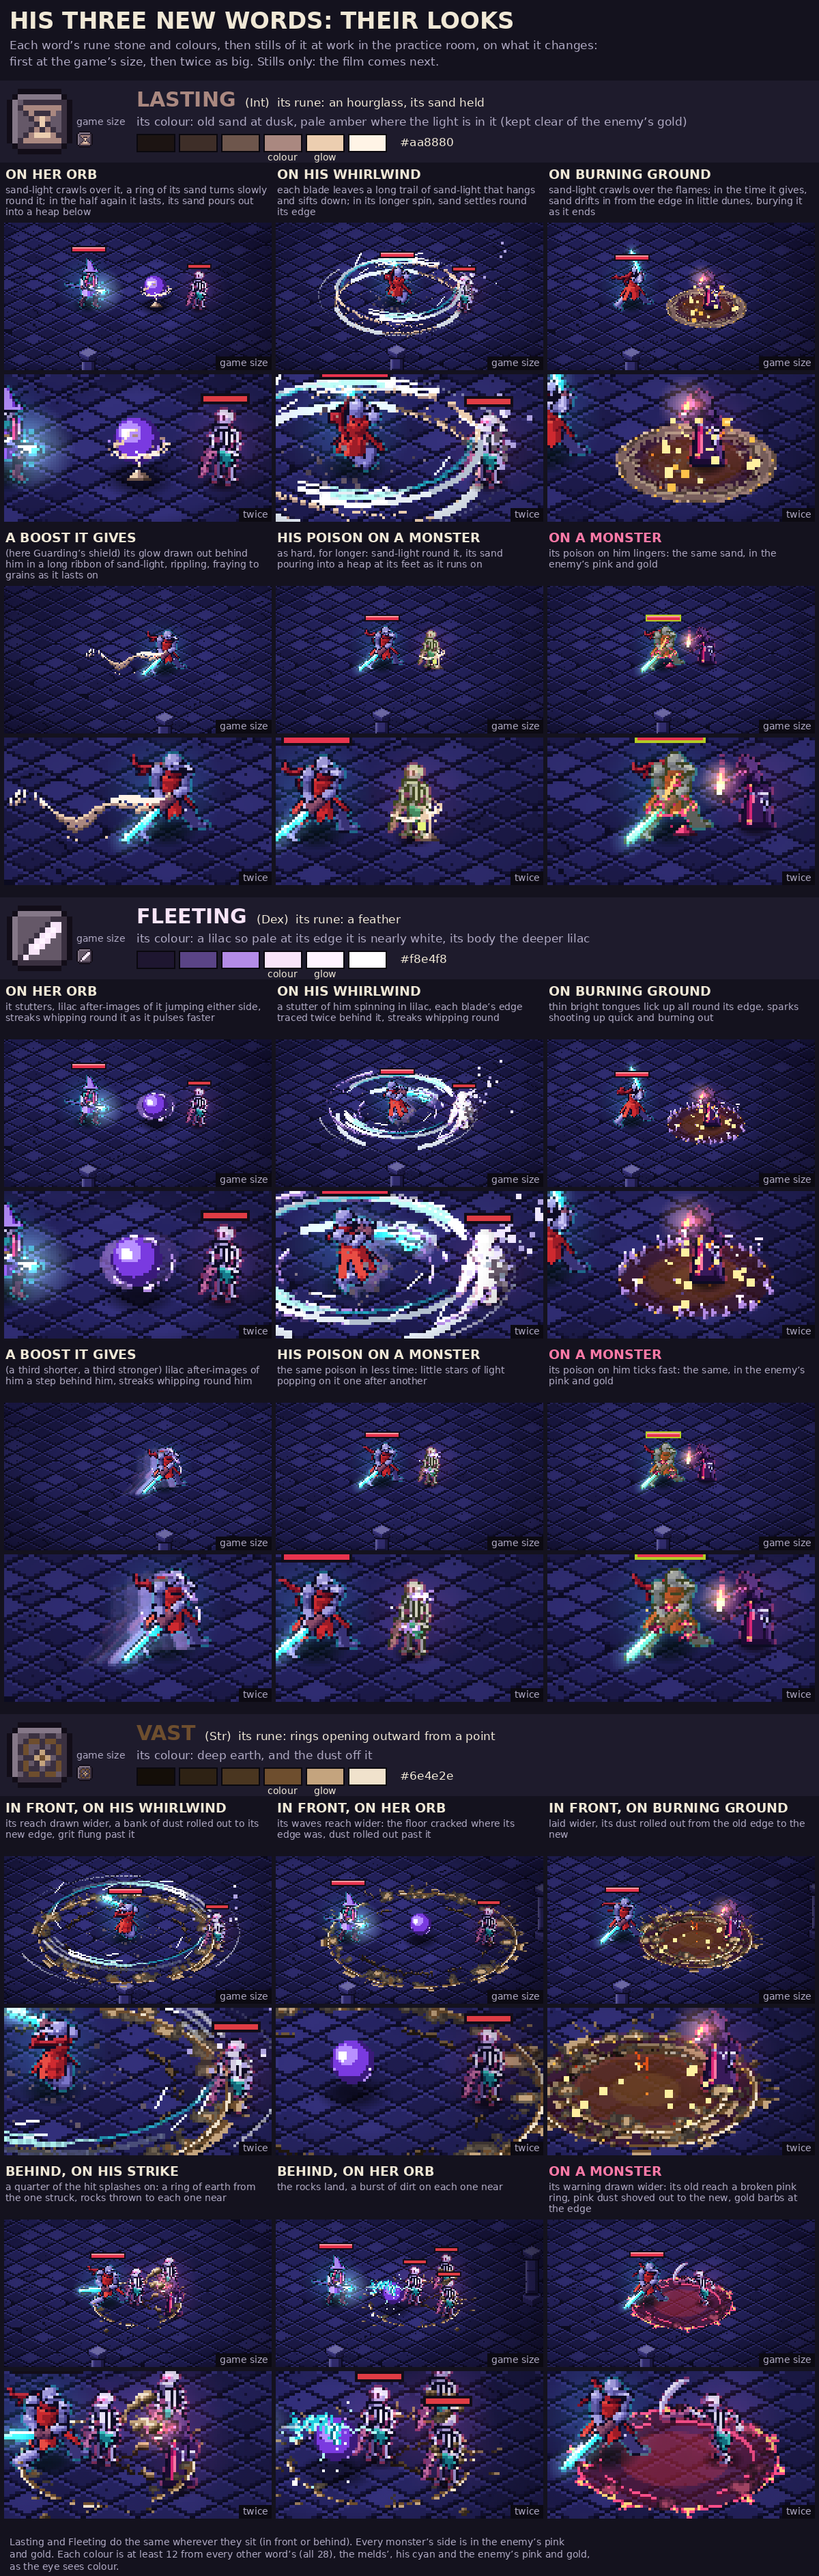
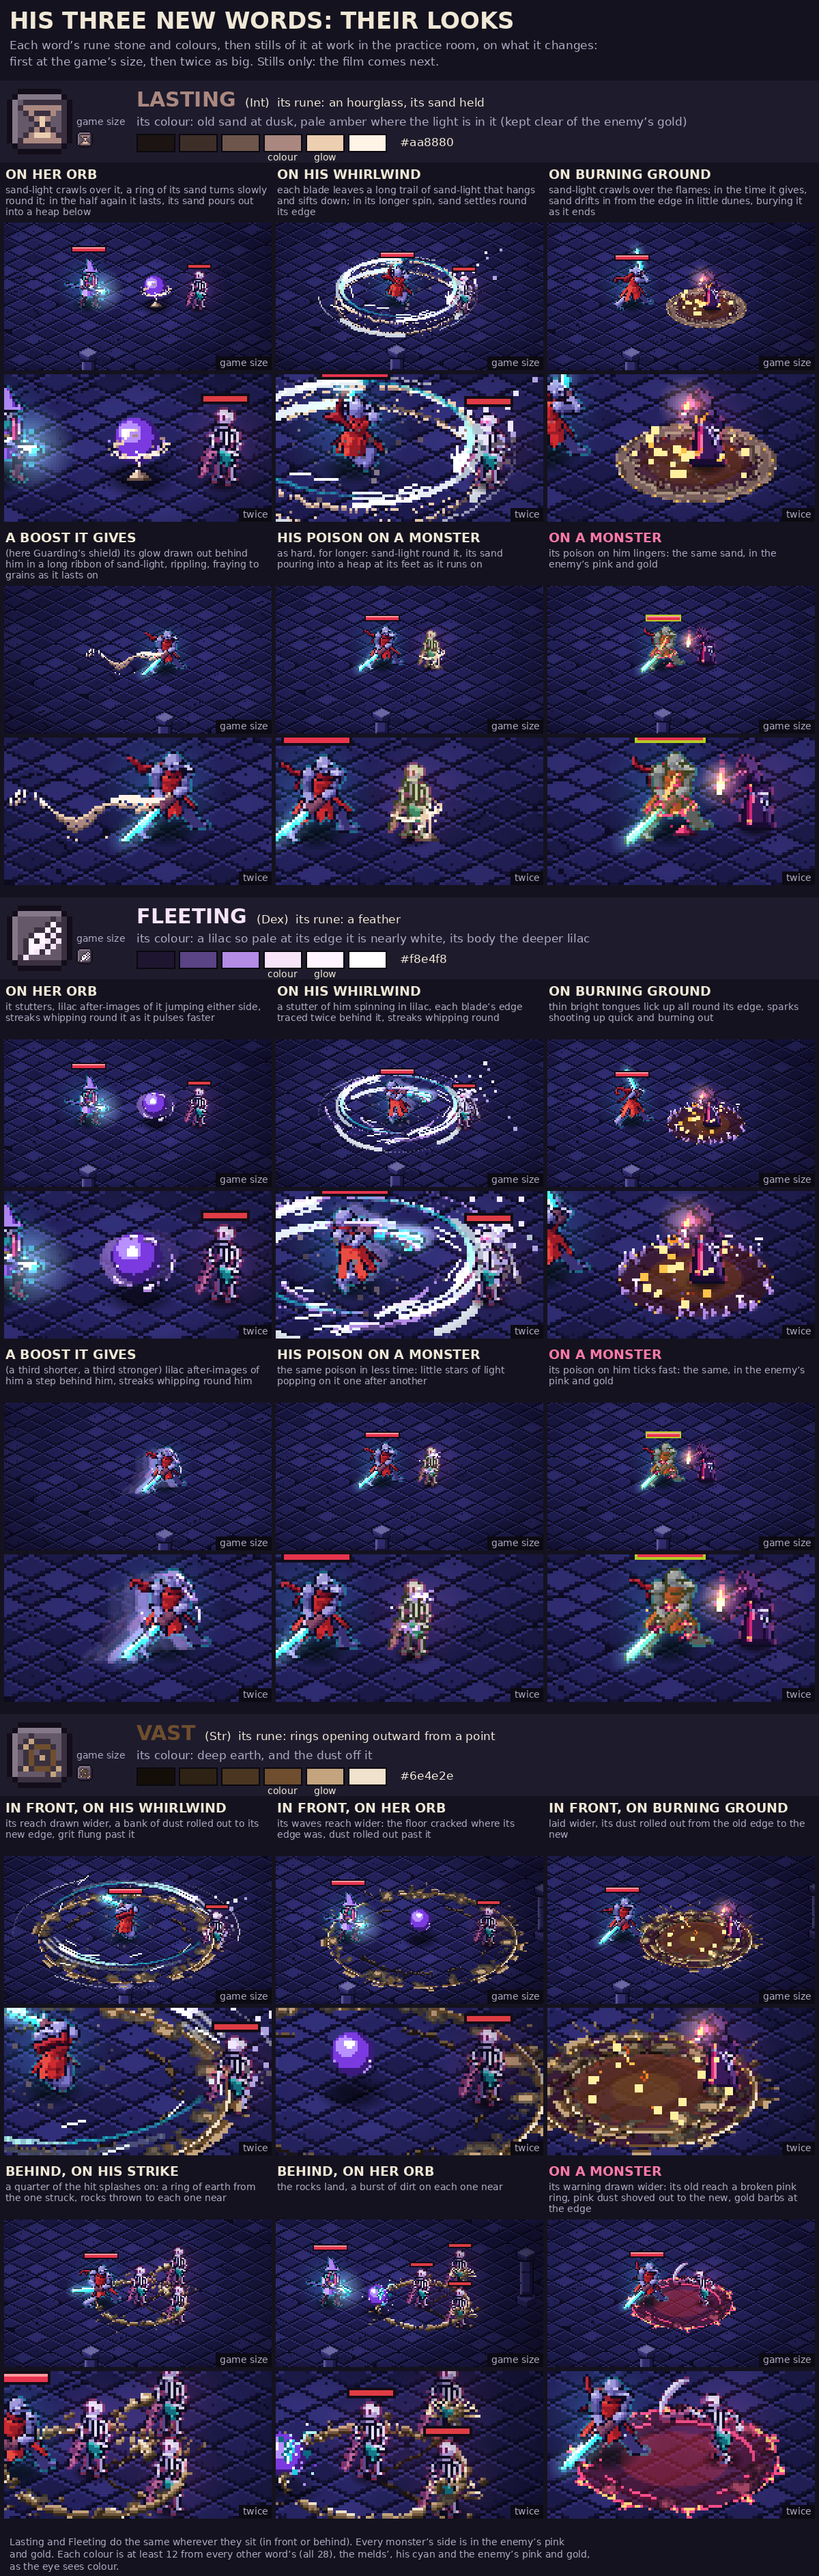
His three new words, step 1b: the Fleeting and Vast runes cut again, Vast's splash spaced and made to read (behind WORDS10_LOOK, off)
What a close look at words3_looks.png (8e5b5656) found, made right before he sees it:
- Fleeting's rune a real feather (quill, shaft, barbs off both sides, the vane above lit and below in shade, gaps, the tip curling); Vast's rune a bright point, a ring round it, the outer ring broken open in two arcs, a fleck: no lattice.
- Vast behind, on his Strike and her orb: the monsters stand apart (each at least its own width from the next and from him, all in the splash's reach); its splash a ridge of earth running out over the floor, a rock arcing to each one near on a thicker trail, a fountain of dirt on each as it lands.
- All eighteen stills: no number of the game's own over them; the game's bar kept out of the crops.
The Lexicon picture is as it was.

Claude-Session: https://claude.ai/code/session_013AACgPRU4FucfYyJnBGYM1

diff --git a/src/render/words10.ts b/src/render/words10.ts
@@ -72,10 +72,12 @@ const ENEMY_DUST: readonly string[] = ['#2a1420', '#401a30', '#5a2440', '#7a3050
 export const W10_GLYPH: Record<W10Word, readonly string[]> = {
   // an hourglass, its sand held: a grain left above, the thread of it, the heap below lit
   lasting: ['XXXXXXX', '.X...X.', '..XoX..', '...o...', '..X.X..', '.XoooX.', 'XXXXXXX'],
-  // a feather, its vane lit, its quill trailing
-  fleeting: ['.....XX', '....XoX', '...XoX.', '..XoX..', '.XoX...', '.XX....', 'X......'],
-  // rings opening outward from a point: the point, a ring of light round it, the outer ring broken open
-  vast: ['.XX.XX.', 'X.....X', 'X..o..X', '..oXo..', 'X..o..X', 'X.....X', '.XX.XX.'],
+  // a feather: its quill bare at the foot, its shaft running up to a tip that curls over; barbs off both sides of it, the vane
+  // above lit, the vane below in shade, gaps in both
+  fleeting: ['.....o.', '....o.o', '..oo.X.', '.o.oX.X', '.ooX.X.', '.oX.X..', 'X......'],
+  // rings opening outward from a point: the bright point, a ring round it, the outer ring broken open in two arcs of lit dust,
+  // a fleck thrown off it
+  vast: ['.o.....', 'o.XXX..', '.X...X.', '.X.o.X.', '.X...X.', 'o.XXX.o', '.....o.'],
 };
 export const W10_GLYPH_IS: Record<W10Word, string> = {
   lasting: 'an hourglass, its sand held',
@@ -826,6 +828,30 @@ function splash(g: CanvasRenderingContext2D, cam: Cam, a: Act10, layer: 'floor' 
   // the ring of earth-coloured force heaving out from it, Vast's own ring (its dust lower, so the near ones stand clear in it)
   const back = layer === 'floor';
   dustRing(g, cx, cy, 0.15, Math.max(0.2, R), 1, fade * (1 - 0.35 * k), a.seed, a.t, back, 0, 0.75);
+  // its front: a ridge of earth heaved up off the floor as it runs out, lit along its crest, clods popping up off it
+  if (R > 0.2) {
+    const n = Math.max(30, Math.round(R * RX * 7));
+    for (let i = 0; i < n; i++) {
+      const an = (i / n) * TAU;
+      if (Math.sin(an) < 0 !== back) continue;
+      const v = vnoise(i * 0.22, 2, a.seed + 9);
+      if (v < 0.22) continue;
+      const x = cx + Math.cos(an) * R * RX;
+      const y = cy + Math.sin(an) * R * RY;
+      if (!dith(x, y, fade * (1 - 0.3 * k) + 0.1, a.seed + 2)) continue;
+      const up = v > 0.55 ? 3 : 2;
+      dot(g, x, y, EARTH[1]);
+      dot(g, x, y - 1, EARTH[3]);
+      if (up > 2) dot(g, x, y - 2, EARTH[4]);
+      dot(g, x, y - up, v > 0.7 ? C[5] : C[4]);
+    }
+    for (let i = 0; i < 12; i++) {
+      const an = hash2(i, a.seed, 11) * TAU;
+      if (Math.sin(an) < 0 !== back) continue;
+      const pop = Math.sin(clamp01(k * 1.3 - hash2(i, a.seed, 12) * 0.3) * Math.PI) * (3 + hash2(i, a.seed, 13) * 5);
+      clod(g, cx + Math.cos(an) * R * RX * 1.04, cy + Math.sin(an) * R * RY * 1.04 - 2 - pop, EARTH, i % 3 === 0);
+    }
+  }
   if (layer === 'floor') {
     // the floor cracked out from where it was struck, and burst up along the way to each one near
     a.to.forEach((o, j) => {
@@ -860,10 +886,11 @@ function splash(g: CanvasRenderingContext2D, cam: Cam, a: Act10, layer: 'floor' 
       for (let q = Math.max(0, fly - tail); q < fly; q += 0.012) {
         const [px, py] = arc(q);
         const k2 = (q - (fly - tail)) / tail;
-        if (!dith(px, py, (0.35 + 0.65 * k2) * fade, a.seed + j)) continue;
+        if (!dith(px, py, (0.45 + 0.55 * k2) * fade, a.seed + j)) continue;
         dot(g, px, py - 1, k2 > 0.6 ? C[5] : C[4]);
         dot(g, px, py, k2 > 0.75 ? C[5] : k2 > 0.4 ? C[4] : EARTH[4]);
-        if (k2 > 0.3) dot(g, px, py + 1, k2 > 0.7 ? C[4] : EARTH[3]);
+        if (k2 > 0.25) dot(g, px, py + 1, k2 > 0.7 ? C[4] : EARTH[3]);
+        if (k2 > 0.55) dot(g, px, py + 2, EARTH[2]);
         if (hash2(Math.round(q * 200), j, a.seed) < 0.15) dot(g, px, py + 3 + (1 - k2) * 6, EARTH[4]);
       }
       const [hx, hy] = arc(fly);
@@ -876,15 +903,15 @@ function splash(g: CanvasRenderingContext2D, cam: Cam, a: Act10, layer: 'floor' 
     }
     const since = a.t - 0.02 - W10_TIME.splash * 0.85;
     const kk = clamp01(since / 0.35);
-    // it bursts on it: a flash of dust-light, dirt thrown up round it, clods falling back
-    if (kk < 0.4) for (let i = 0; i < 7; i++) {
-      const an = (i / 7) * TAU + hash2(i, a.seed + j, 6) * 0.5;
-      const L0 = 2 + kk * 10;
-      const L1 = L0 + 4 * (1 - kk / 0.4);
-      streak(g, tx + Math.cos(an) * L0, ty + Math.sin(an) * L0 * 0.6, tx + Math.cos(an) * L1, ty + Math.sin(an) * L1 * 0.6, [EARTH[3], C[4], C[5]], 1, fade);
+    // it bursts on it: a fountain of dirt thrown up and out round it, lit, a puff of dust, clods falling back
+    if (kk < 0.55) for (let i = 0; i < 9; i++) {
+      const an = -Math.PI / 2 + ((i / 8) - 0.5) * 2.6 + (hash2(i, a.seed + j, 6) - 0.5) * 0.3;
+      const L0 = 2 + kk * 9;
+      const L1 = L0 + (6 + hash2(i, a.seed + j, 7) * 5) * (1 - kk / 0.55);
+      streak(g, tx + Math.cos(an) * L0, ty + 2 + Math.sin(an) * L0 * 0.8, tx + Math.cos(an) * L1, ty + 2 + Math.sin(an) * L1 * 0.8, [EARTH[2], EARTH[4], C[4], C[5]], i % 2 ? 2 : 1, fade);
     }
-    mist(g, tx, ty + 3, 4 + kk * 4, 2 + kk * 2, [DUST[1], DUST[2], DUST[3], C[4]], 0.9 * fade * (1 - kk), a.seed + j, a.t, 0.8);
-    for (let i = 0; i < 7; i++) {
+    mist(g, tx, ty + 3, 5 + kk * 5, 2.5 + kk * 2, [DUST[1], DUST[2], DUST[3], C[4]], 0.9 * fade * (1 - kk), a.seed + j, a.t, 0.8);
+    for (let i = 0; i < 9; i++) {
       const an = hash2(i, a.seed + j, 3) * TAU;
       const d = 2 + kk * 14 * (0.6 + 0.4 * hash2(i, a.seed + j, 4));
       const up = Math.sin(kk * Math.PI) * (4 + hash2(i, a.seed + j, 5) * 5);

diff --git a/docs/mockups/words10/README.md b/docs/mockups/words10/README.md
@@ -40,8 +40,8 @@ chat's stand-ins (lasting `#b09080`, fleeting `#e8d0f8`, vast `#7a5a3a`) are rep
 | Word | Colour | Rune (7 by 7) | At work on his abilities | On a monster (the enemy's pink and gold) |
 |---|---|---|---|---|
 | **Lasting** (Int) | old sand at dusk `#aa8880`, pale amber glow `#ecceb0` | an hourglass, its sand held | a slow band of sand-light crawling over what it holds (the orb, a turret, a familiar, the spin, a patch of ground), and a ring of its sand turning slowly round a thing that hangs; IN THE HALF AGAIN IT GIVES (the time past its own): its sand pouring out of the orb into a heap below, settling in a drift round the spin's edge, drifting in over a patch from its edge in rippled tongues, burying it as it ends. A boost it gave him (Guarding's shield, Power's might, Swift's haste, Frenzy's hold): its glow drawn out behind him in a long ribbon of sand-light along his path, rippling, turning, fraying to grains. His poison or burning on a monster (as hard, for longer): sand-light round it, its sand pouring into a heap at its feet | its poison, burning or chill on him lingers: the same sand, ring and heap on him, in pink and gold |
-| **Fleeting** (Dex) | a lilac so pale it is nearly white `#f8e4f8`, its body the deeper lilac `#b48ce6` | a feather | a quickening: the orb stuttering, lilac after-images of it (its own picture) jumping to either side of it from one picture to the next, streaks whipping round it; his spin a stutter of him in lilac, each blade's edge traced twice behind it, streaks whipping round; a patch's edge licked up in thin quick tongues, lilac, white at the tip, sparks shooting up and burning out. A boost it gave him (a third shorter, a third stronger): lilac after-images of him a step behind, streaks whipping round him. His poison or burning on a monster (the same in less time): little stars of light popping on it one after another, a spark off each | its poison and burning on him tick fast: the same stars, in pink and gold |
-| **Vast** (Str) | deep earth `#6e4e2e`, its dust `#c4a47e` | rings opening outward from a point | IN FRONT: wherever an area of his lands wider (a whirlwind's cut, an orb's wave, a burst, burning ground laid), the floor cracked in broken runs where its edge was, and a bank of dust rolled out from there to the new edge, grit and clods flung past it. BEHIND: from each hit a quarter splashes on: a ring of earth heaving out from the one struck to the splash's reach, a rock thrown to each one near on a trail of lit dust, bursting on it in dirt and clods | its warning drawn wider: its old reach a broken ring of bright pink, the band out to the new reach churned with pink dust shoved outward, gold grit along the new edge, gold-tipped barbs on it pointing out, beating |
+| **Fleeting** (Dex) | a lilac so pale it is nearly white `#f8e4f8`, its body the deeper lilac `#b48ce6` | a feather: its quill bare at the foot, its shaft running up to a tip that curls over, barbs off both sides (the vane above lit, the one below in shade), gaps in both | a quickening: the orb stuttering, lilac after-images of it (its own picture) jumping to either side of it from one picture to the next, streaks whipping round it; his spin a stutter of him in lilac, each blade's edge traced twice behind it, streaks whipping round; a patch's edge licked up in thin quick tongues, lilac, white at the tip, sparks shooting up and burning out. A boost it gave him (a third shorter, a third stronger): lilac after-images of him a step behind, streaks whipping round him. His poison or burning on a monster (the same in less time): little stars of light popping on it one after another, a spark off each | its poison and burning on him tick fast: the same stars, in pink and gold |
+| **Vast** (Str) | deep earth `#6e4e2e`, its dust `#c4a47e` | rings opening outward from a point: the bright point, a ring round it, the outer ring broken open in two arcs of lit dust, a fleck thrown off it | IN FRONT: wherever an area of his lands wider (a whirlwind's cut, an orb's wave, a burst, burning ground laid), the floor cracked in broken runs where its edge was, and a bank of dust rolled out from there to the new edge, grit and clods flung past it. BEHIND: from each hit a quarter splashes on: a ring of earth heaving out from the one struck to the splash's reach, a rock thrown to each one near on a trail of lit dust, bursting on it in dirt and clods | its warning drawn wider: its old reach a broken ring of bright pink, the band out to the new reach churned with pink dust shoved outward, gold grit along the new edge, gold-tipped barbs on it pointing out, beating |
 
 What fights for him keeps his cyan (none of the three adds one). Every monster's side is in the enemy's pink and gold.
 
@@ -140,6 +140,17 @@ MY PICK, THE BLOCK DOWN THE LEFT: all 28 stones are seen at once at their own si
 is not; every word's page is written whole, with 16 pixels to spare; a word is one tap away, as now. Smaller stones cannot free
 the room (still three rows), and pages of stones hide most of the words behind arrows. The shelf of kept words along the foot is
 as it is. (The game's touch size taken: 18 game pixels each way, a button's height with fingers.)
+
+## Step 1b: what a close look at the sheet found, made right before he sees it
+
+- The Fleeting rune read as a plain bar, the Vast rune as a grid of squares: both cut again (above), each its own (the test).
+- Vast behind, on his Strike and on her orb: the monsters stood in one another. They stand apart now, each at least its own width
+  from the next and from him (the two near ones a stone's width either side of the one struck, one behind it and one before it,
+  all inside the splash's reach, 1.5 tiles and their own size). And its splash reads at the game's size: a ridge of earth heaved
+  up and running out over the floor from the one struck, lit along its crest, clods popping off it; a rock arcing to each one near
+  on a thicker trail of lit dust; on each, a fountain of dirt thrown up and out as it lands.
+- All eighteen stills looked at again, at the game's size and at twice: no number of the game's own over them (his spin's next
+  bite held off while the world stands still), and the game's bar along the foot of the screen kept out of the crops.
 
 ## How it was made and checked
 
